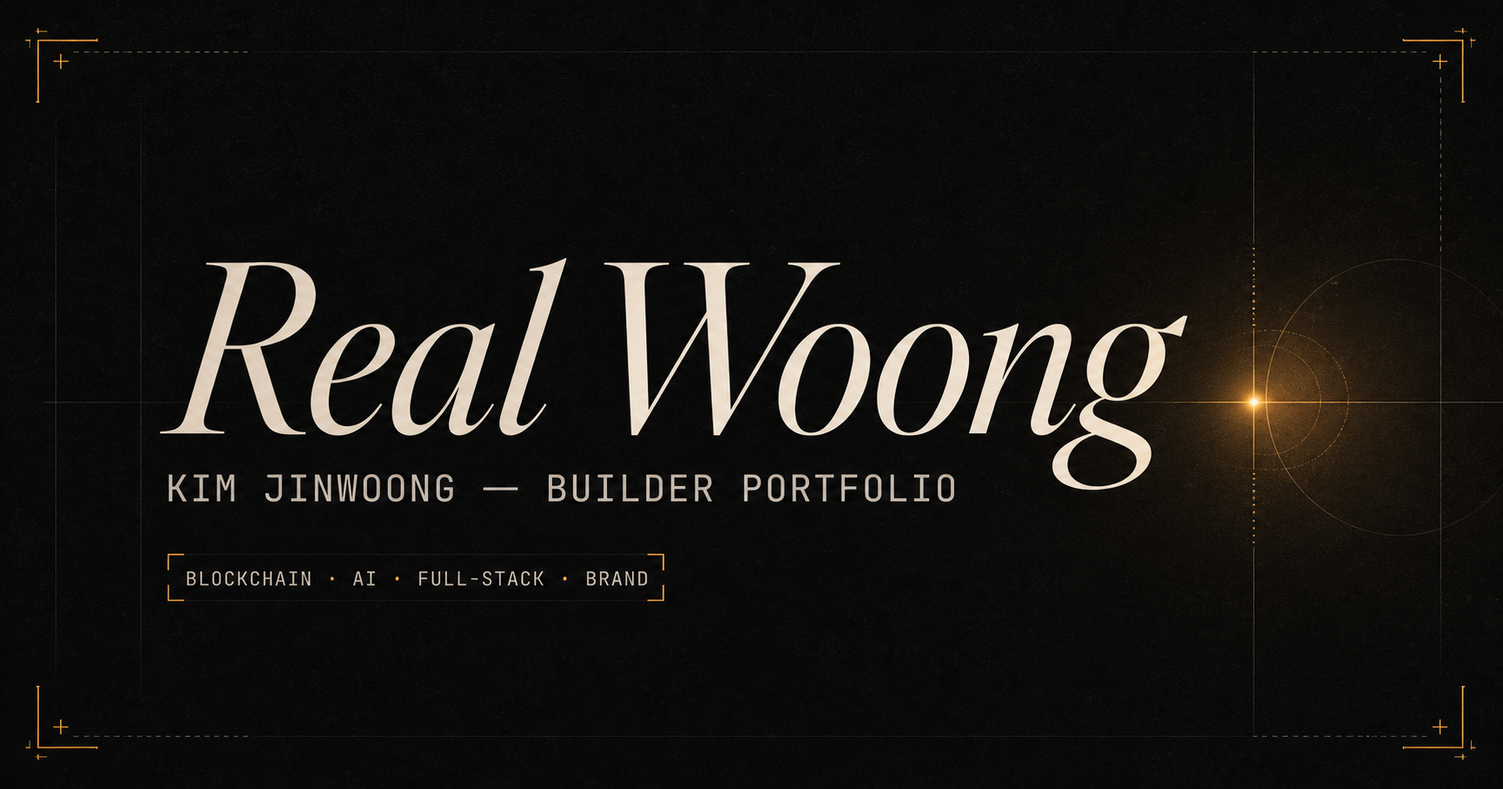
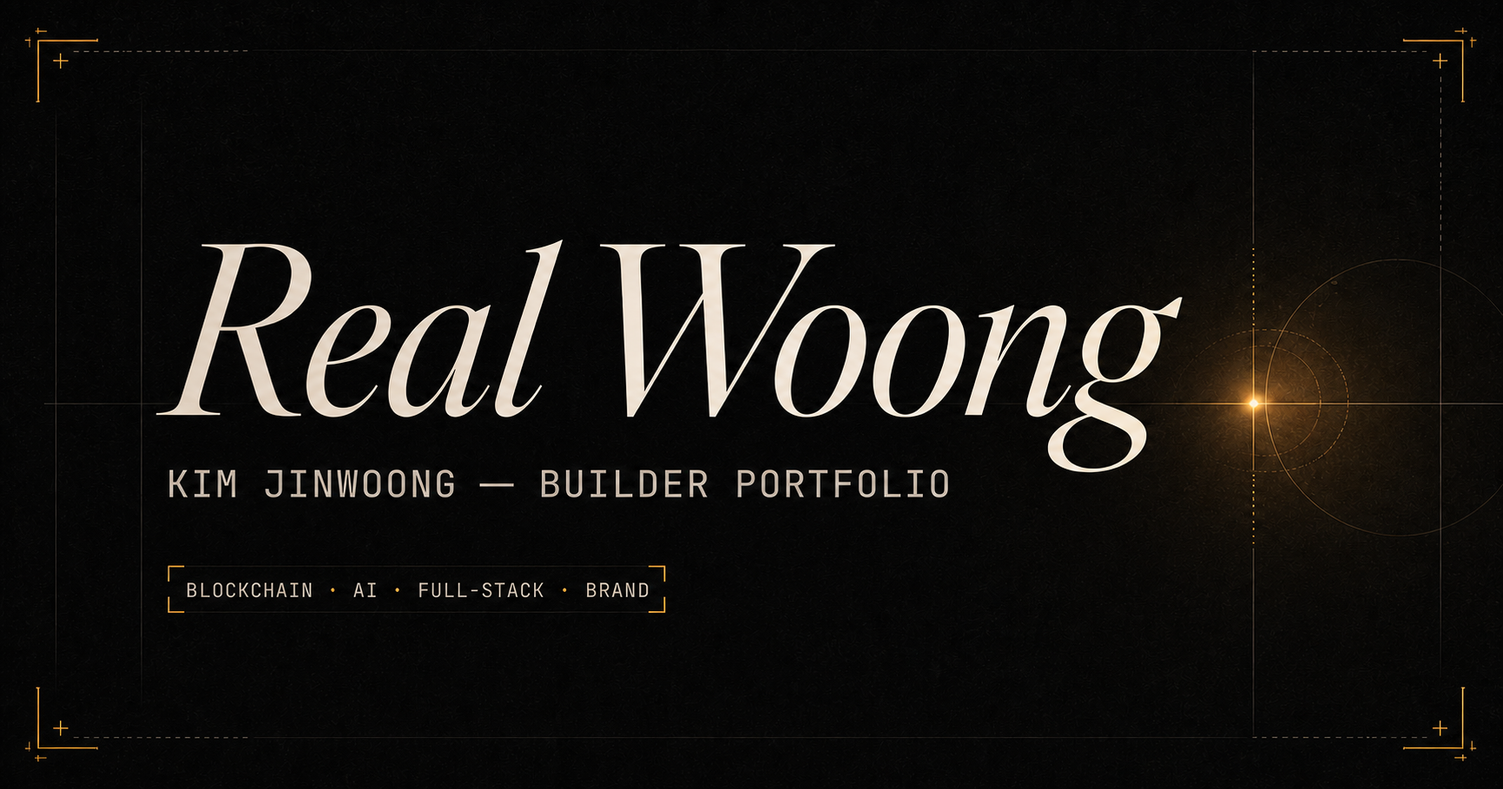
Fix title descender and typography spacing

diff --git a/portfolio_design_draft.html b/portfolio_design_draft.html
@@ -107,6 +107,7 @@
   .eyebrow .pip{width:5px;height:5px;border-radius:50%;background:var(--amber);box-shadow:0 0 8px 1px var(--amber);animation:pulse 2.4s ease-in-out infinite;}
   h1,h2,h3{font-weight:700;text-wrap:balance;margin:0;letter-spacing:-.01em;}
   p{line-height:1.7;color:var(--muted);max-width:60ch;margin:0;}
+  h1,h2,h3,p,.tl-item li{word-break:keep-all;overflow-wrap:break-word;}
 
   /* section chapter number */
   .chapter-no{position:absolute;top:clamp(70px,10vw,110px);right:clamp(20px,5vw,64px);font-family:var(--font-mono);font-size:clamp(3rem,7vw,6rem);color:var(--line-strong);line-height:1;user-select:none;z-index:0;}
@@ -125,7 +126,8 @@
   .hero{padding-top:clamp(150px,20vw,210px);}
   .hero .wrap{position:relative;}
   .hero h1{font-family:var(--font-display);font-style:italic;font-weight:400;
-    font-size:clamp(4.2rem,13vw,10.5rem);line-height:.86;letter-spacing:-.02em;
+    font-size:clamp(3.55rem,13vw,10.5rem);line-height:.96;letter-spacing:-.025em;
+    white-space:nowrap;padding-bottom:.12em;overflow:visible;
     background:linear-gradient(160deg,var(--metal-1) 15%,var(--metal-2) 65%,var(--metal-1) 100%);
     -webkit-background-clip:text;background-clip:text;color:transparent;
     opacity:0;transform:translateY(20px) scale(.985);
@@ -133,7 +135,7 @@
     transition:opacity 1s cubic-bezier(.16,1,.3,1),transform 1s cubic-bezier(.16,1,.3,1),filter .9s ease;
   }
   html.intro-done .hero h1{opacity:1;transform:translateY(0) scale(1);filter:blur(0) drop-shadow(0 8px 30px rgba(0,0,0,0.25));}
-  .hero .byline{font-family:var(--font-mono);font-size:12px;letter-spacing:.1em;text-transform:uppercase;color:var(--muted);margin-top:18px;
+  .hero .byline{font-family:var(--font-mono);font-size:12px;line-height:1.6;letter-spacing:.075em;text-transform:uppercase;color:var(--muted);margin-top:20px;
     opacity:0;transform:translateY(16px);transition:opacity .8s cubic-bezier(.16,1,.3,1) 1.05s,transform .8s cubic-bezier(.16,1,.3,1) 1.05s;}
   .hero .byline b{color:var(--text);}
   .hero .tagline{margin-top:30px;font-size:clamp(16px,1.7vw,19px);max-width:52ch;color:var(--text);
@@ -287,7 +289,7 @@
 <div class="intro" id="intro">
   <div class="intro-stage">
     <div class="boot" id="boot"></div>
-    <div class="intro-mark" id="intro-mark">Real&nbsp;Woong</div>
+    <div class="intro-mark" id="intro-mark">Real Woong</div>
     <div class="intro-sweep" id="intro-sweep"></div>
   </div>
   <div class="intro-skip">Click or press any key to skip</div>
@@ -327,9 +329,9 @@
   <section class="hero" id="hero">
     <div class="wrap">
       <div class="eyebrow"><span class="pip"></span>Seoul, Korea — Yonsei Univ. CS '23 — Design Draft</div>
-      <h1>Real&nbsp;Woong</h1>
+      <h1>Real Woong</h1>
       <div class="byline"><b>Kim JinWoong</b> · Builder — Blockchain / AI / Full-Stack / Brand</div>
-      <p class="tagline">스마트컨트랙트부터 AI 에이전트, 브랜딩 굿즈까지 — <em>문제를 발견하고 구조를 설계해 끝까지 만드는</em> 엔지니어입니다.</p>
+      <p class="tagline">스마트 컨트랙트부터 AI 에이전트, 브랜딩 굿즈까지. <em>문제를 발견하고 구조를 설계해 끝까지 만드는</em> 엔지니어입니다.</p>
       <div class="cta-row">
         <a class="btn primary magnetic" href="#work">Selected Work</a>
         <a class="btn ghost magnetic" href="#contact">Get in touch</a>
@@ -362,7 +364,7 @@
       <div class="section-head reveal" data-d="0">
         <div class="eyebrow"><span class="pip"></span>Selected Work</div>
         <h2>다섯 개의 프로젝트로 보는 작업 방식.</h2>
-        <p>블록체인 스타트업 프로토타입부터 실제 배포된 풀스택 서비스, 개인 프로덕트, iOS 팀 프로젝트까지 — 서로 다른 문제를 다룬 다섯 개를 골랐습니다.</p>
+        <p>블록체인 스타트업 프로토타입부터 실제 배포된 풀스택 서비스, 개인 프로덕트와 iOS 팀 프로젝트까지—서로 다른 문제를 다룬 다섯 개를 골랐습니다.</p>
       </div>
 
       <div class="work-index" id="work-index">
@@ -378,7 +380,7 @@
         <div class="work-row reveal" data-d="4" data-glyph="AI AGENT" data-cap="Toss API + FRED 기반 PAPER Trading 에이전트, 57개 자동 테스트">
           <span class="no tnum">04</span><span class="title">TAPIoca</span><span class="cat">AI Agent</span><span class="year tnum">2026</span><span class="arrow">↗</span>
         </div>
-        <div class="work-row reveal" data-d="5" data-glyph="iOS · TEAM" data-cap="건강 정보 기반 외식 추천 iOS 앱, MVVM · RxSwift">
+        <div class="work-row reveal" data-d="5" data-glyph="iOS · TEAM" data-cap="건강 정보 기반 외식 추천 iOS 앱, MVVM·RxSwift">
           <span class="no tnum">05</span><span class="title">HealEat</span><span class="cat">iOS · Team</span><span class="year tnum">2024</span><span class="arrow">↗</span>
         </div>
       </div>
@@ -391,7 +393,7 @@
       <div class="work-detail reveal" data-d="2">
         <div class="eyebrow" style="margin-bottom:8px;">01 / 05 — Agora</div>
         <h3 style="font-size:1.4rem;">AI Trading Agent Marketplace</h3>
-        <p style="margin-top:12px;">AI 투자 에이전트의 성과를 동일한 조건에서 비교하고, 검증된 에이전트를 발견·Follow할 수 있도록 설계한 마켓플레이스. 프론트엔드 대시보드와 Sui Move 기반 비수탁형 Vault 컨트랙트를 함께 개발하며 실제 창업을 목표로 팀 단위로 진행 중입니다.</p>
+        <p style="margin-top:12px;">AI 투자 에이전트의 성과를 동일한 조건에서 비교하고, 검증된 에이전트를 발견하고 팔로우할 수 있도록 설계한 마켓플레이스입니다. 프론트엔드 대시보드와 Sui Move 기반 비수탁형 Vault 컨트랙트를 함께 개발하며 실제 창업을 목표로 팀 단위 개발을 진행하고 있습니다.</p>
         <div class="stack"><span>Next.js</span><span>Sui / Move</span><span>Framer Motion</span><span>Sui dApp Kit</span></div>
       </div>
     </div>
@@ -411,7 +413,7 @@
       <div class="section-head reveal" data-d="0">
         <div class="eyebrow"><span class="pip"></span>Project Archive</div>
         <h2>선정작 너머, 17개의 기록.</h2>
-        <p>Selected Work가 큐레이션된 다섯 개라면, 여기는 지금까지 만든 것 전체입니다 — 개인 프로젝트, 팀 프로젝트, 그리고 브랜딩·기획 활동까지.</p>
+        <p>Selected Work가 큐레이션한 다섯 개라면, 여기에는 지금까지 만든 작업을 모두 담았습니다. 개인 프로젝트와 팀 프로젝트, 브랜딩·기획 활동까지 한눈에 볼 수 있습니다.</p>
       </div>
 
       <div class="archive-controls reveal" data-d="1">
@@ -438,7 +440,7 @@
         <article class="a-item reveal" data-cat="blockchain">
           <div style="display:flex;justify-content:space-between;"><span class="a-no tnum">02</span><span class="a-glyph">SUI</span></div>
           <span class="a-cat">Blockchain · Full-Stack</span><span class="a-title">CryptoFunding</span>
-          <span class="a-desc">Sui 크라우드펀딩. 컨트랙트 · 백엔드 · 배포 전 과정을 직접 설계.</span>
+          <span class="a-desc">Sui 크라우드펀딩. 컨트랙트, 백엔드, 배포 전 과정을 직접 설계.</span>
           <span class="a-year tnum">2025</span>
         </article>
         <article class="a-item reveal" data-cat="web">
@@ -450,13 +452,13 @@
         <article class="a-item reveal" data-cat="web">
           <div style="display:flex;justify-content:space-between;"><span class="a-no tnum">04</span><span class="a-glyph">iOS</span></div>
           <span class="a-cat">iOS · Team</span><span class="a-title">HealEat</span>
-          <span class="a-desc">건강 정보 기반 외식 추천 앱. MVVM · RxSwift 첫 실전 적용.</span>
+          <span class="a-desc">건강 정보 기반 외식 추천 앱. MVVM과 RxSwift를 처음으로 실전에 적용.</span>
           <span class="a-year tnum">2024</span>
         </article>
         <article class="a-item reveal" data-cat="web">
           <div style="display:flex;justify-content:space-between;"><span class="a-no tnum">05</span><span class="a-glyph">PRODUCT</span></div>
           <span class="a-cat">Product · Personal</span><span class="a-title">Sogon.zip</span>
-          <span class="a-desc">연인·친구를 위한 프라이빗 아카이브. 웹 베타 + 모바일 MVP.</span>
+          <span class="a-desc">연인과 친구를 위한 프라이빗 아카이브. 웹 베타와 모바일 MVP.</span>
           <span class="a-year tnum">2026</span>
         </article>
         <article class="a-item reveal" data-cat="web">
@@ -480,7 +482,7 @@
         <article class="a-item reveal" data-cat="ai">
           <div style="display:flex;justify-content:space-between;"><span class="a-no tnum">09</span><span class="a-glyph">CV</span></div>
           <span class="a-cat">AI · Computer Vision</span><span class="a-title">CV Projects</span>
-          <span class="a-desc">손 제스처 · 표정 인식 등 OpenCV 기반 실험 프로젝트 모음.</span>
+          <span class="a-desc">손 제스처와 표정 인식 등 OpenCV 기반 실험 프로젝트 모음.</span>
           <span class="a-year tnum">2024</span>
         </article>
         <article class="a-item reveal" data-cat="ai">
@@ -504,7 +506,7 @@
         <article class="a-item reveal" data-cat="brand">
           <div style="display:flex;justify-content:space-between;"><span class="a-no tnum">13</span><span class="a-glyph">BR</span></div>
           <span class="a-cat">Branding · Goods</span><span class="a-title">2023 대동제(새벽)</span>
-          <span class="a-desc">대형 행사 브랜딩. 인생네컷 프레임 · 반다나 단독 디자인.</span>
+          <span class="a-desc">대형 행사 브랜딩. 인생네컷 프레임과 반다나를 단독 디자인.</span>
           <span class="a-year tnum">2023</span>
         </article>
         <article class="a-item reveal" data-cat="brand">
@@ -516,7 +518,7 @@
         <article class="a-item reveal" data-cat="brand">
           <div style="display:flex;justify-content:space-between;"><span class="a-no tnum">15</span><span class="a-glyph">BR</span></div>
           <span class="a-cat">Branding · Leadership</span><span class="a-title">하랑 (24대 컴과 학생회)</span>
-          <span class="a-desc">학생회 로고 · 하키티 · 카드뉴스, 브랜딩 총괄.</span>
+          <span class="a-desc">학생회 로고, 하키티와 카드뉴스 제작 및 브랜딩 총괄.</span>
           <span class="a-year tnum">2024</span>
         </article>
         <article class="a-item reveal" data-cat="brand">
@@ -564,12 +566,12 @@
         <div class="p-row">
           <div class="p-no tnum">03</div>
           <div class="p-title"><span>Build</span>제작</div>
-          <p>프론트엔드 · 백엔드 · 스마트컨트랙트 · iOS까지, 필요하면 혼자서도 처음부터 끝까지 만듭니다. 디자인은 Figma로 직접 잡습니다.</p>
+          <p>프론트엔드·백엔드·스마트 컨트랙트·iOS까지, 필요하면 혼자서도 처음부터 끝까지 만듭니다. 디자인은 Figma로 직접 설계합니다.</p>
         </div>
         <div class="p-row">
           <div class="p-no tnum">04</div>
-          <div class="p-title"><span>Verify &amp; Ship</span>검증 · 배포</div>
-          <p>AWS · Vercel · Cloudflare · Oracle Cloud에 실제로 배포하고, TAPIoca는 자동 테스트 57개와 PAPER Trading 안전장치로 먼저 검증한 뒤에만 다음 단계로 넘어갑니다.</p>
+          <div class="p-title"><span>Verify &amp; Ship</span>검증·배포</div>
+          <p>AWS·Vercel·Cloudflare·Oracle Cloud에 실제로 배포합니다. TAPIoca는 자동 테스트 57개와 PAPER Trading 안전장치로 먼저 검증한 뒤에만 다음 단계로 넘어갑니다.</p>
         </div>
       </div>
     </div>
@@ -586,22 +588,22 @@
       <div class="timeline">
         <div class="tl-item reveal reveal-l">
           <div class="tl-year tnum">2026</div>
-          <h3>블록블록 개발팀장 · SUI-HackerThon TF팀</h3>
+          <h3>블록블록 개발팀장·SUI-HackerThon TF팀</h3>
           <ul><li>연세 블록체인 동아리 블록블록 개발팀장</li><li>2026 SUI-HackerThon TF팀 — 해커하우스 세션 담당</li><li>Agora 개발</li></ul>
         </div>
         <div class="tl-item reveal reveal-r">
           <div class="tl-year tnum">2025</div>
-          <h3>블록블록 활동 · CryptoFunding · Textro</h3>
+          <h3>블록블록 활동·CryptoFunding·Textro</h3>
           <ul><li>연세 블록체인 동아리 “블록블록” 활동</li><li>CryptoFunding, Textro 개발</li></ul>
         </div>
         <div class="tl-item reveal reveal-l">
           <div class="tl-year tnum">2024</div>
-          <h3>하랑 홍보부장 · UMC 부회장</h3>
-          <ul><li>24대 컴퓨터과학과 학생회 “하랑” 홍보부장 · 브랜딩 총괄</li><li>2024 UMC 연세 지부 부회장</li><li>Uni-Made, HealEat 팀 프로젝트</li></ul>
+          <h3>하랑 홍보부장·UMC 부회장</h3>
+          <ul><li>24대 컴퓨터과학과 학생회 “하랑” 홍보부장·브랜딩 총괄</li><li>2024 UMC 연세 지부 부회장</li><li>Uni-Made, HealEat 팀 프로젝트</li></ul>
         </div>
         <div class="tl-item reveal reveal-r">
           <div class="tl-year tnum">2023</div>
-          <h3>총동아리연합회 홍보처 · 학생회 홍보처</h3>
+          <h3>총동아리연합회 홍보처·학생회 홍보처</h3>
           <ul><li>총동아리연합회 홍보처</li><li>컴퓨터과학과 학생회(온새미로) 홍보처</li><li>대동제, 연고 동아리 교류전 웹사이트 제작</li></ul>
         </div>
       </div>
@@ -635,7 +637,7 @@
         <a class="btn primary magnetic" href="mailto:jinung344@gmail.com">jinung344@gmail.com</a>
         <a class="btn ghost magnetic" href="https://github.com/Real-Woong" target="_blank" rel="noopener">GitHub ↗</a>
       </div>
-      <p class="note reveal" data-d="4">DESIGN DRAFT — 콘텐츠는 notion_portfolio 폴더 정리본을 기반으로 구성했습니다. 프로젝트별 정확한 기간·상태, GitHub·배포 링크의 공개 여부, CryptoFunding 표기, 기술 스택 불일치는 최종 반영 전 확인이 필요합니다. 개인 연락처 중 휴대폰 번호는 공개 페이지 노출을 피하기 위해 이메일 · GitHub만 표기했습니다.</p>
+      <p class="note reveal" data-d="4">문제를 발견하고, 구조를 설계하고, 실제로 동작하는 제품까지 만듭니다. 블록체인·AI·풀스택·iOS·브랜드를 잇는 다음 작업을 기다립니다.</p>
     </div>
   </section>
 </main>

diff --git a/public/portfolio.html b/public/portfolio.html
@@ -114,6 +114,7 @@
   .eyebrow .pip{width:5px;height:5px;border-radius:50%;background:var(--amber);box-shadow:0 0 8px 1px var(--amber);animation:pulse 2.4s ease-in-out infinite;}
   h1,h2,h3{font-weight:700;text-wrap:balance;margin:0;letter-spacing:-.01em;}
   p{line-height:1.7;color:var(--muted);max-width:60ch;margin:0;}
+  h1,h2,h3,p,.tl-item li{word-break:keep-all;overflow-wrap:break-word;}
 
   /* section chapter number */
   .chapter-no{position:absolute;top:clamp(70px,10vw,110px);right:clamp(20px,5vw,64px);font-family:var(--font-mono);font-size:clamp(3rem,7vw,6rem);color:var(--line-strong);line-height:1;user-select:none;z-index:0;}
@@ -132,7 +133,8 @@
   .hero{padding-top:clamp(150px,20vw,210px);}
   .hero .wrap{position:relative;}
   .hero h1{font-family:var(--font-display);font-style:italic;font-weight:400;
-    font-size:clamp(4.2rem,13vw,10.5rem);line-height:.86;letter-spacing:-.02em;
+    font-size:clamp(3.55rem,13vw,10.5rem);line-height:.96;letter-spacing:-.025em;
+    white-space:nowrap;padding-bottom:.12em;overflow:visible;
     background:linear-gradient(160deg,var(--metal-1) 15%,var(--metal-2) 65%,var(--metal-1) 100%);
     -webkit-background-clip:text;background-clip:text;color:transparent;
     opacity:0;transform:translateY(20px) scale(.985);
@@ -140,7 +142,7 @@
     transition:opacity 1s cubic-bezier(.16,1,.3,1),transform 1s cubic-bezier(.16,1,.3,1),filter .9s ease;
   }
   html.intro-done .hero h1{opacity:1;transform:translateY(0) scale(1);filter:blur(0) drop-shadow(0 8px 30px rgba(0,0,0,0.25));}
-  .hero .byline{font-family:var(--font-mono);font-size:12px;letter-spacing:.1em;text-transform:uppercase;color:var(--muted);margin-top:18px;
+  .hero .byline{font-family:var(--font-mono);font-size:12px;line-height:1.6;letter-spacing:.075em;text-transform:uppercase;color:var(--muted);margin-top:20px;
     opacity:0;transform:translateY(16px);transition:opacity .8s cubic-bezier(.16,1,.3,1) 1.05s,transform .8s cubic-bezier(.16,1,.3,1) 1.05s;}
   .hero .byline b{color:var(--text);}
   .hero .tagline{margin-top:30px;font-size:clamp(16px,1.7vw,19px);max-width:52ch;color:var(--text);
@@ -296,7 +298,7 @@
 <div class="intro" id="intro">
   <div class="intro-stage">
     <div class="boot" id="boot"></div>
-    <div class="intro-mark" id="intro-mark">Real&nbsp;Woong</div>
+    <div class="intro-mark" id="intro-mark">Real Woong</div>
     <div class="intro-sweep" id="intro-sweep"></div>
   </div>
   <div class="intro-skip">Click or press any key to skip</div>
@@ -336,9 +338,9 @@
   <section class="hero" id="hero">
     <div class="wrap">
       <div class="eyebrow"><span class="pip"></span>Seoul, Korea — Yonsei Univ. CS '23</div>
-      <h1>Real&nbsp;Woong</h1>
+      <h1>Real Woong</h1>
       <div class="byline"><b>Kim JinWoong</b> · Builder — Blockchain / AI / Full-Stack / Brand</div>
-      <p class="tagline">스마트컨트랙트부터 AI 에이전트, 브랜딩 굿즈까지 — <em>문제를 발견하고 구조를 설계해 끝까지 만드는</em> 엔지니어입니다.</p>
+      <p class="tagline">스마트 컨트랙트부터 AI 에이전트, 브랜딩 굿즈까지. <em>문제를 발견하고 구조를 설계해 끝까지 만드는</em> 엔지니어입니다.</p>
       <div class="cta-row">
         <a class="btn primary magnetic" href="#work">Selected Work</a>
         <a class="btn ghost magnetic" href="#contact">Get in touch</a>
@@ -371,7 +373,7 @@
       <div class="section-head reveal" data-d="0">
         <div class="eyebrow"><span class="pip"></span>Selected Work</div>
         <h2>다섯 개의 프로젝트로 보는 작업 방식.</h2>
-        <p>블록체인 스타트업 프로토타입부터 실제 배포된 풀스택 서비스, 개인 프로덕트, iOS 팀 프로젝트까지 — 서로 다른 문제를 다룬 다섯 개를 골랐습니다.</p>
+        <p>블록체인 스타트업 프로토타입부터 실제 배포된 풀스택 서비스, 개인 프로덕트와 iOS 팀 프로젝트까지—서로 다른 문제를 다룬 다섯 개를 골랐습니다.</p>
       </div>
 
       <div class="work-index" id="work-index">
@@ -387,7 +389,7 @@
         <div class="work-row reveal" data-d="4" data-glyph="AI AGENT" data-cap="Toss API + FRED 기반 PAPER Trading 에이전트, 57개 자동 테스트">
           <span class="no tnum">04</span><span class="title">TAPIoca</span><span class="cat">AI Agent</span><span class="year tnum">2026</span><span class="arrow">↗</span>
         </div>
-        <div class="work-row reveal" data-d="5" data-glyph="iOS · TEAM" data-cap="건강 정보 기반 외식 추천 iOS 앱, MVVM · RxSwift">
+        <div class="work-row reveal" data-d="5" data-glyph="iOS · TEAM" data-cap="건강 정보 기반 외식 추천 iOS 앱, MVVM·RxSwift">
           <span class="no tnum">05</span><span class="title">HealEat</span><span class="cat">iOS · Team</span><span class="year tnum">2024</span><span class="arrow">↗</span>
         </div>
       </div>
@@ -400,7 +402,7 @@
       <div class="work-detail reveal" data-d="2">
         <div class="eyebrow" style="margin-bottom:8px;">01 / 05 — Agora</div>
         <h3 style="font-size:1.4rem;">AI Trading Agent Marketplace</h3>
-        <p style="margin-top:12px;">AI 투자 에이전트의 성과를 동일한 조건에서 비교하고, 검증된 에이전트를 발견·Follow할 수 있도록 설계한 마켓플레이스. 프론트엔드 대시보드와 Sui Move 기반 비수탁형 Vault 컨트랙트를 함께 개발하며 실제 창업을 목표로 팀 단위로 진행 중입니다.</p>
+        <p style="margin-top:12px;">AI 투자 에이전트의 성과를 동일한 조건에서 비교하고, 검증된 에이전트를 발견하고 팔로우할 수 있도록 설계한 마켓플레이스입니다. 프론트엔드 대시보드와 Sui Move 기반 비수탁형 Vault 컨트랙트를 함께 개발하며 실제 창업을 목표로 팀 단위 개발을 진행하고 있습니다.</p>
         <div class="stack"><span>Next.js</span><span>Sui / Move</span><span>Framer Motion</span><span>Sui dApp Kit</span></div>
       </div>
     </div>
@@ -420,7 +422,7 @@
       <div class="section-head reveal" data-d="0">
         <div class="eyebrow"><span class="pip"></span>Project Archive</div>
         <h2>선정작 너머, 17개의 기록.</h2>
-        <p>Selected Work가 큐레이션된 다섯 개라면, 여기는 지금까지 만든 것 전체입니다 — 개인 프로젝트, 팀 프로젝트, 그리고 브랜딩·기획 활동까지.</p>
+        <p>Selected Work가 큐레이션한 다섯 개라면, 여기에는 지금까지 만든 작업을 모두 담았습니다. 개인 프로젝트와 팀 프로젝트, 브랜딩·기획 활동까지 한눈에 볼 수 있습니다.</p>
       </div>
 
       <div class="archive-controls reveal" data-d="1">
@@ -447,7 +449,7 @@
         <article class="a-item reveal" data-cat="blockchain">
           <div style="display:flex;justify-content:space-between;"><span class="a-no tnum">02</span><span class="a-glyph">SUI</span></div>
           <span class="a-cat">Blockchain · Full-Stack</span><span class="a-title">CryptoFunding</span>
-          <span class="a-desc">Sui 크라우드펀딩. 컨트랙트 · 백엔드 · 배포 전 과정을 직접 설계.</span>
+          <span class="a-desc">Sui 크라우드펀딩. 컨트랙트, 백엔드, 배포 전 과정을 직접 설계.</span>
           <span class="a-year tnum">2025</span>
         </article>
         <article class="a-item reveal" data-cat="web">
@@ -459,13 +461,13 @@
         <article class="a-item reveal" data-cat="web">
           <div style="display:flex;justify-content:space-between;"><span class="a-no tnum">04</span><span class="a-glyph">iOS</span></div>
           <span class="a-cat">iOS · Team</span><span class="a-title">HealEat</span>
-          <span class="a-desc">건강 정보 기반 외식 추천 앱. MVVM · RxSwift 첫 실전 적용.</span>
+          <span class="a-desc">건강 정보 기반 외식 추천 앱. MVVM과 RxSwift를 처음으로 실전에 적용.</span>
           <span class="a-year tnum">2024</span>
         </article>
         <article class="a-item reveal" data-cat="web">
           <div style="display:flex;justify-content:space-between;"><span class="a-no tnum">05</span><span class="a-glyph">PRODUCT</span></div>
           <span class="a-cat">Product · Personal</span><span class="a-title">Sogon.zip</span>
-          <span class="a-desc">연인·친구를 위한 프라이빗 아카이브. 웹 베타 + 모바일 MVP.</span>
+          <span class="a-desc">연인과 친구를 위한 프라이빗 아카이브. 웹 베타와 모바일 MVP.</span>
           <span class="a-year tnum">2026</span>
         </article>
         <article class="a-item reveal" data-cat="web">
@@ -489,7 +491,7 @@
         <article class="a-item reveal" data-cat="ai">
           <div style="display:flex;justify-content:space-between;"><span class="a-no tnum">09</span><span class="a-glyph">CV</span></div>
           <span class="a-cat">AI · Computer Vision</span><span class="a-title">CV Projects</span>
-          <span class="a-desc">손 제스처 · 표정 인식 등 OpenCV 기반 실험 프로젝트 모음.</span>
+          <span class="a-desc">손 제스처와 표정 인식 등 OpenCV 기반 실험 프로젝트 모음.</span>
           <span class="a-year tnum">2024</span>
         </article>
         <article class="a-item reveal" data-cat="ai">
@@ -513,7 +515,7 @@
         <article class="a-item reveal" data-cat="brand">
           <div style="display:flex;justify-content:space-between;"><span class="a-no tnum">13</span><span class="a-glyph">BR</span></div>
           <span class="a-cat">Branding · Goods</span><span class="a-title">2023 대동제(새벽)</span>
-          <span class="a-desc">대형 행사 브랜딩. 인생네컷 프레임 · 반다나 단독 디자인.</span>
+          <span class="a-desc">대형 행사 브랜딩. 인생네컷 프레임과 반다나를 단독 디자인.</span>
           <span class="a-year tnum">2023</span>
         </article>
         <article class="a-item reveal" data-cat="brand">
@@ -525,7 +527,7 @@
         <article class="a-item reveal" data-cat="brand">
           <div style="display:flex;justify-content:space-between;"><span class="a-no tnum">15</span><span class="a-glyph">BR</span></div>
           <span class="a-cat">Branding · Leadership</span><span class="a-title">하랑 (24대 컴과 학생회)</span>
-          <span class="a-desc">학생회 로고 · 하키티 · 카드뉴스, 브랜딩 총괄.</span>
+          <span class="a-desc">학생회 로고, 하키티와 카드뉴스 제작 및 브랜딩 총괄.</span>
           <span class="a-year tnum">2024</span>
         </article>
         <article class="a-item reveal" data-cat="brand">
@@ -573,12 +575,12 @@
         <div class="p-row">
           <div class="p-no tnum">03</div>
           <div class="p-title"><span>Build</span>제작</div>
-          <p>프론트엔드 · 백엔드 · 스마트컨트랙트 · iOS까지, 필요하면 혼자서도 처음부터 끝까지 만듭니다. 디자인은 Figma로 직접 잡습니다.</p>
+          <p>프론트엔드·백엔드·스마트 컨트랙트·iOS까지, 필요하면 혼자서도 처음부터 끝까지 만듭니다. 디자인은 Figma로 직접 설계합니다.</p>
         </div>
         <div class="p-row">
           <div class="p-no tnum">04</div>
-          <div class="p-title"><span>Verify &amp; Ship</span>검증 · 배포</div>
-          <p>AWS · Vercel · Cloudflare · Oracle Cloud에 실제로 배포하고, TAPIoca는 자동 테스트 57개와 PAPER Trading 안전장치로 먼저 검증한 뒤에만 다음 단계로 넘어갑니다.</p>
+          <div class="p-title"><span>Verify &amp; Ship</span>검증·배포</div>
+          <p>AWS·Vercel·Cloudflare·Oracle Cloud에 실제로 배포합니다. TAPIoca는 자동 테스트 57개와 PAPER Trading 안전장치로 먼저 검증한 뒤에만 다음 단계로 넘어갑니다.</p>
         </div>
       </div>
     </div>
@@ -595,22 +597,22 @@
       <div class="timeline">
         <div class="tl-item reveal reveal-l">
           <div class="tl-year tnum">2026</div>
-          <h3>블록블록 개발팀장 · SUI-HackerThon TF팀</h3>
+          <h3>블록블록 개발팀장·SUI-HackerThon TF팀</h3>
           <ul><li>연세 블록체인 동아리 블록블록 개발팀장</li><li>2026 SUI-HackerThon TF팀 — 해커하우스 세션 담당</li><li>Agora 개발</li></ul>
         </div>
         <div class="tl-item reveal reveal-r">
           <div class="tl-year tnum">2025</div>
-          <h3>블록블록 활동 · CryptoFunding · Textro</h3>
+          <h3>블록블록 활동·CryptoFunding·Textro</h3>
           <ul><li>연세 블록체인 동아리 “블록블록” 활동</li><li>CryptoFunding, Textro 개발</li></ul>
         </div>
         <div class="tl-item reveal reveal-l">
           <div class="tl-year tnum">2024</div>
-          <h3>하랑 홍보부장 · UMC 부회장</h3>
-          <ul><li>24대 컴퓨터과학과 학생회 “하랑” 홍보부장 · 브랜딩 총괄</li><li>2024 UMC 연세 지부 부회장</li><li>Uni-Made, HealEat 팀 프로젝트</li></ul>
+          <h3>하랑 홍보부장·UMC 부회장</h3>
+          <ul><li>24대 컴퓨터과학과 학생회 “하랑” 홍보부장·브랜딩 총괄</li><li>2024 UMC 연세 지부 부회장</li><li>Uni-Made, HealEat 팀 프로젝트</li></ul>
         </div>
         <div class="tl-item reveal reveal-r">
           <div class="tl-year tnum">2023</div>
-          <h3>총동아리연합회 홍보처 · 학생회 홍보처</h3>
+          <h3>총동아리연합회 홍보처·학생회 홍보처</h3>
           <ul><li>총동아리연합회 홍보처</li><li>컴퓨터과학과 학생회(온새미로) 홍보처</li><li>대동제, 연고 동아리 교류전 웹사이트 제작</li></ul>
         </div>
       </div>
@@ -644,7 +646,7 @@
         <a class="btn primary magnetic" href="mailto:jinung344@gmail.com">jinung344@gmail.com</a>
         <a class="btn ghost magnetic" href="https://github.com/Real-Woong" target="_blank" rel="noopener">GitHub ↗</a>
       </div>
-      <p class="note reveal" data-d="4">문제를 발견하고, 구조를 설계하고, 실제로 동작하는 제품까지 만듭니다. 블록체인 · AI · 풀스택 · iOS · 브랜드를 잇는 다음 작업을 기다립니다.</p>
+      <p class="note reveal" data-d="4">문제를 발견하고, 구조를 설계하고, 실제로 동작하는 제품까지 만듭니다. 블록체인·AI·풀스택·iOS·브랜드를 잇는 다음 작업을 기다립니다.</p>
     </div>
   </section>
 </main>
